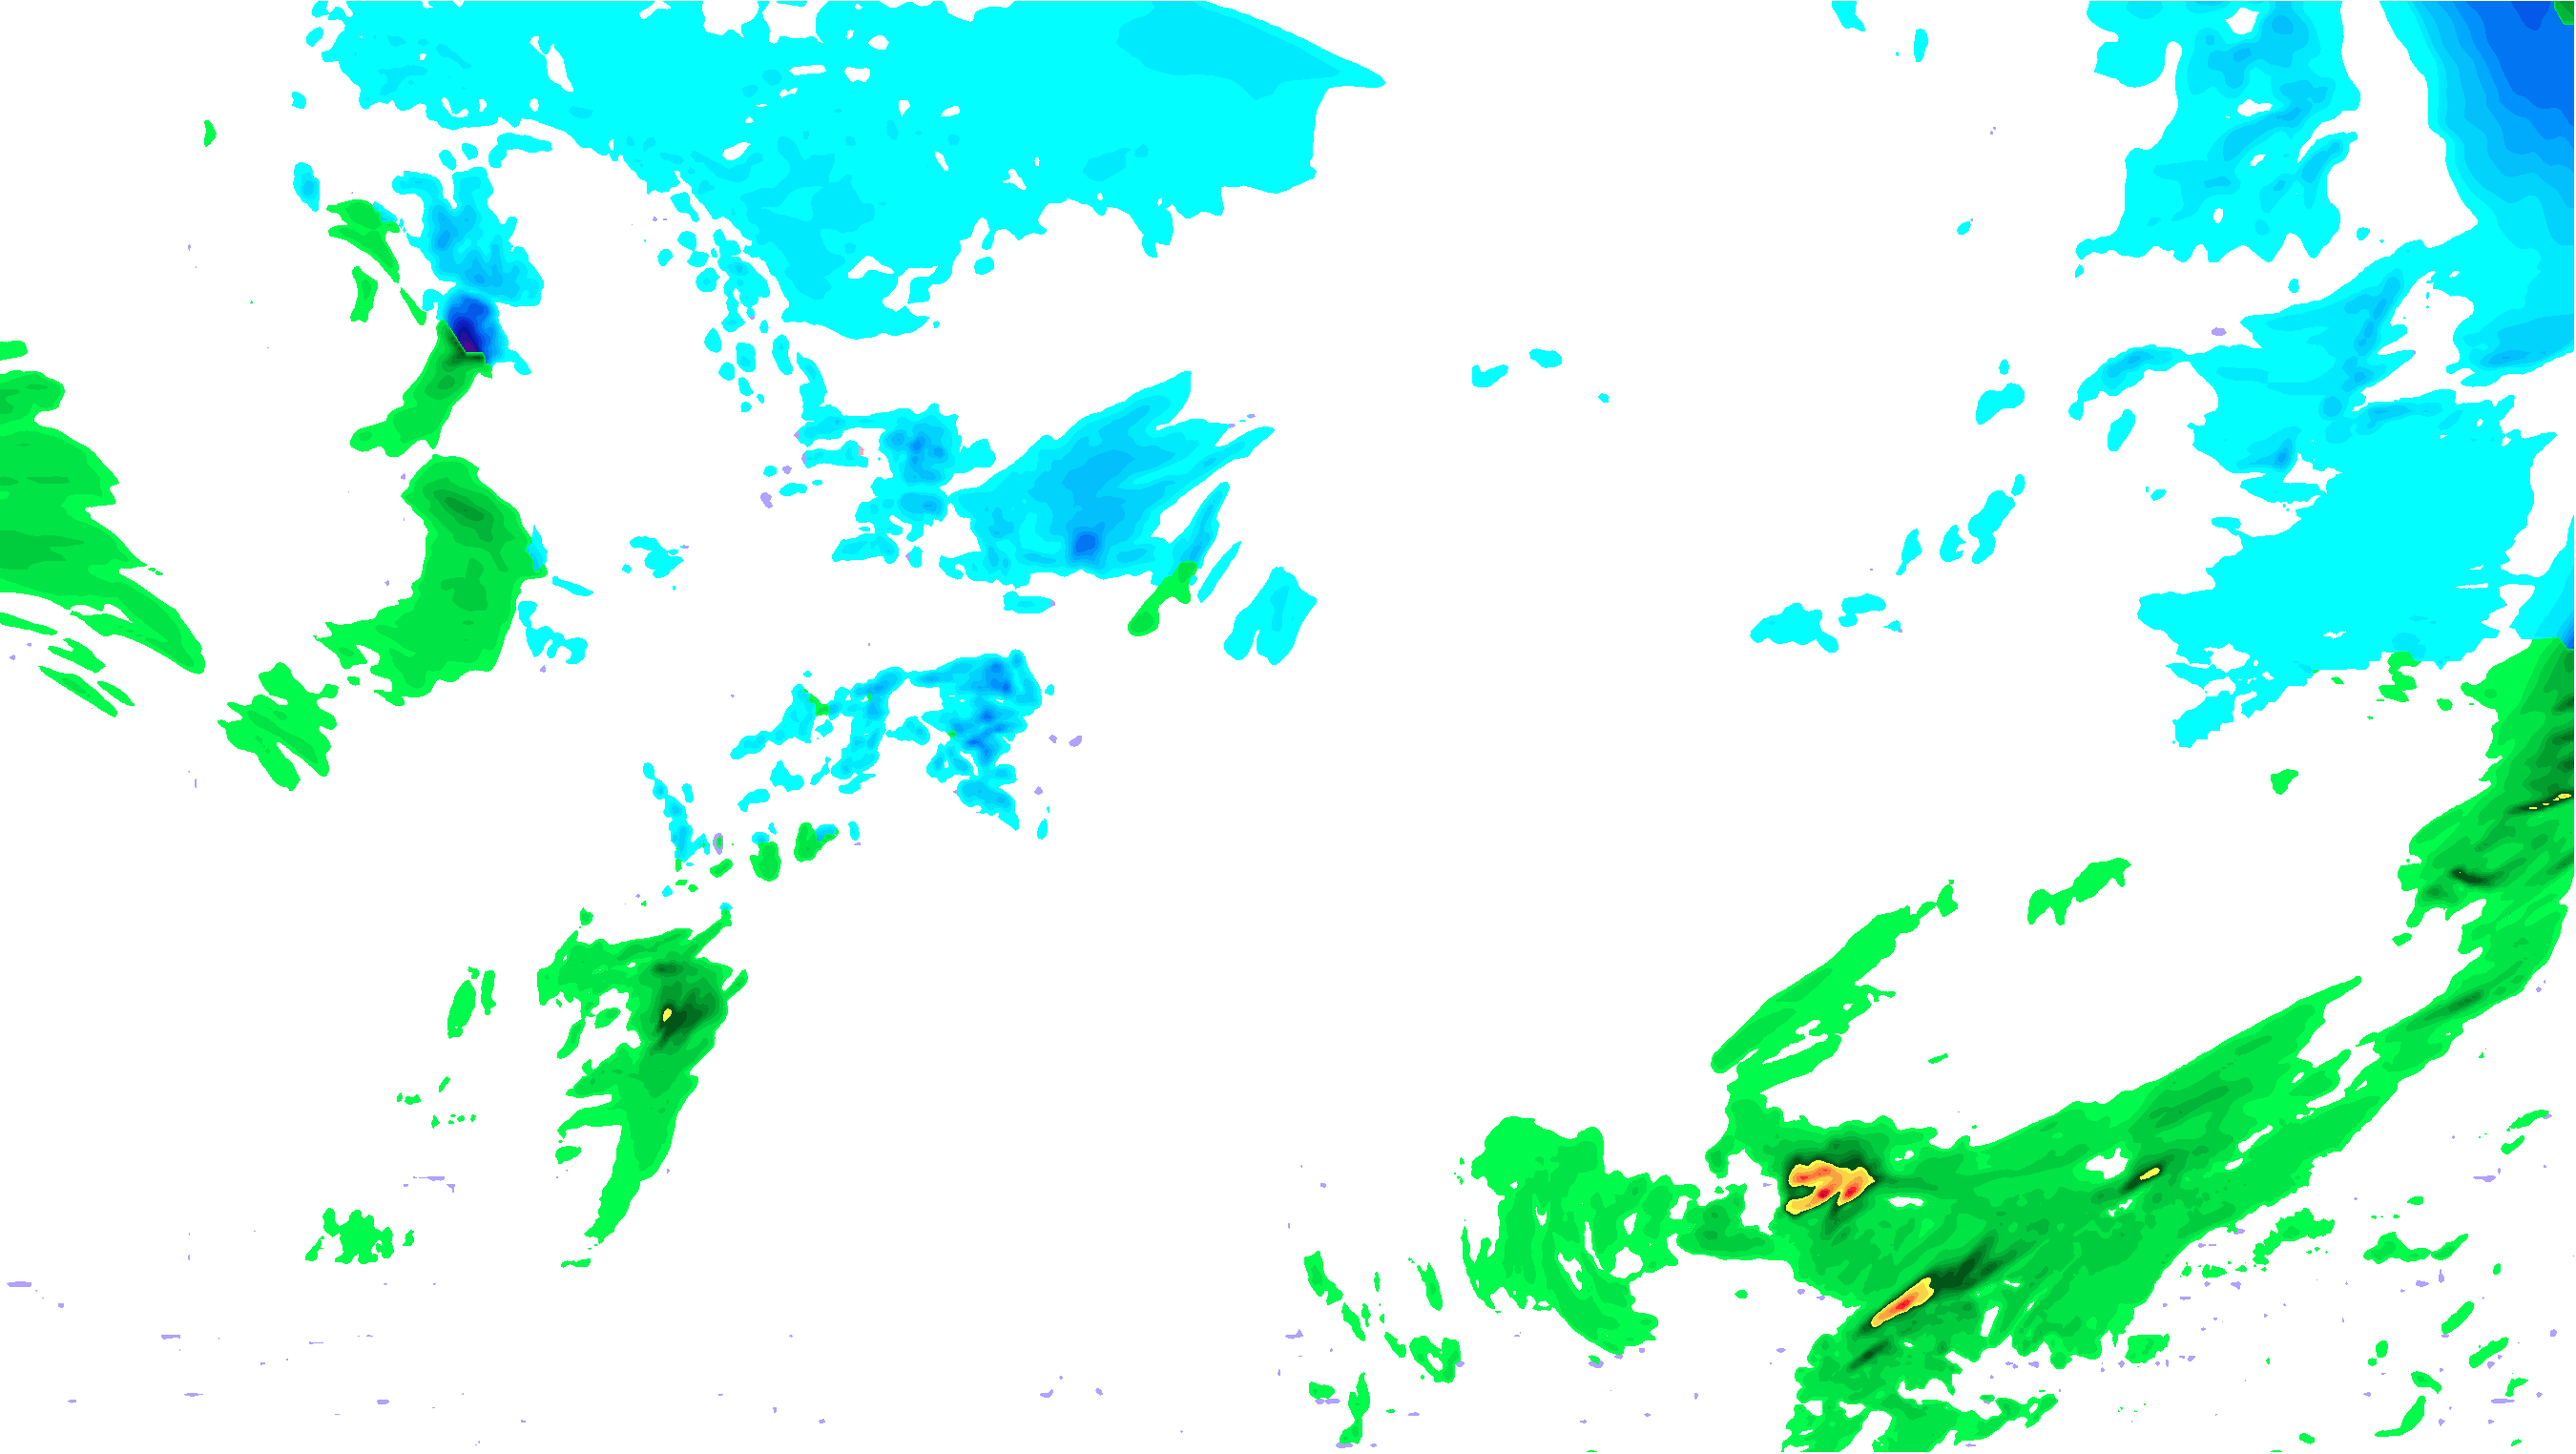
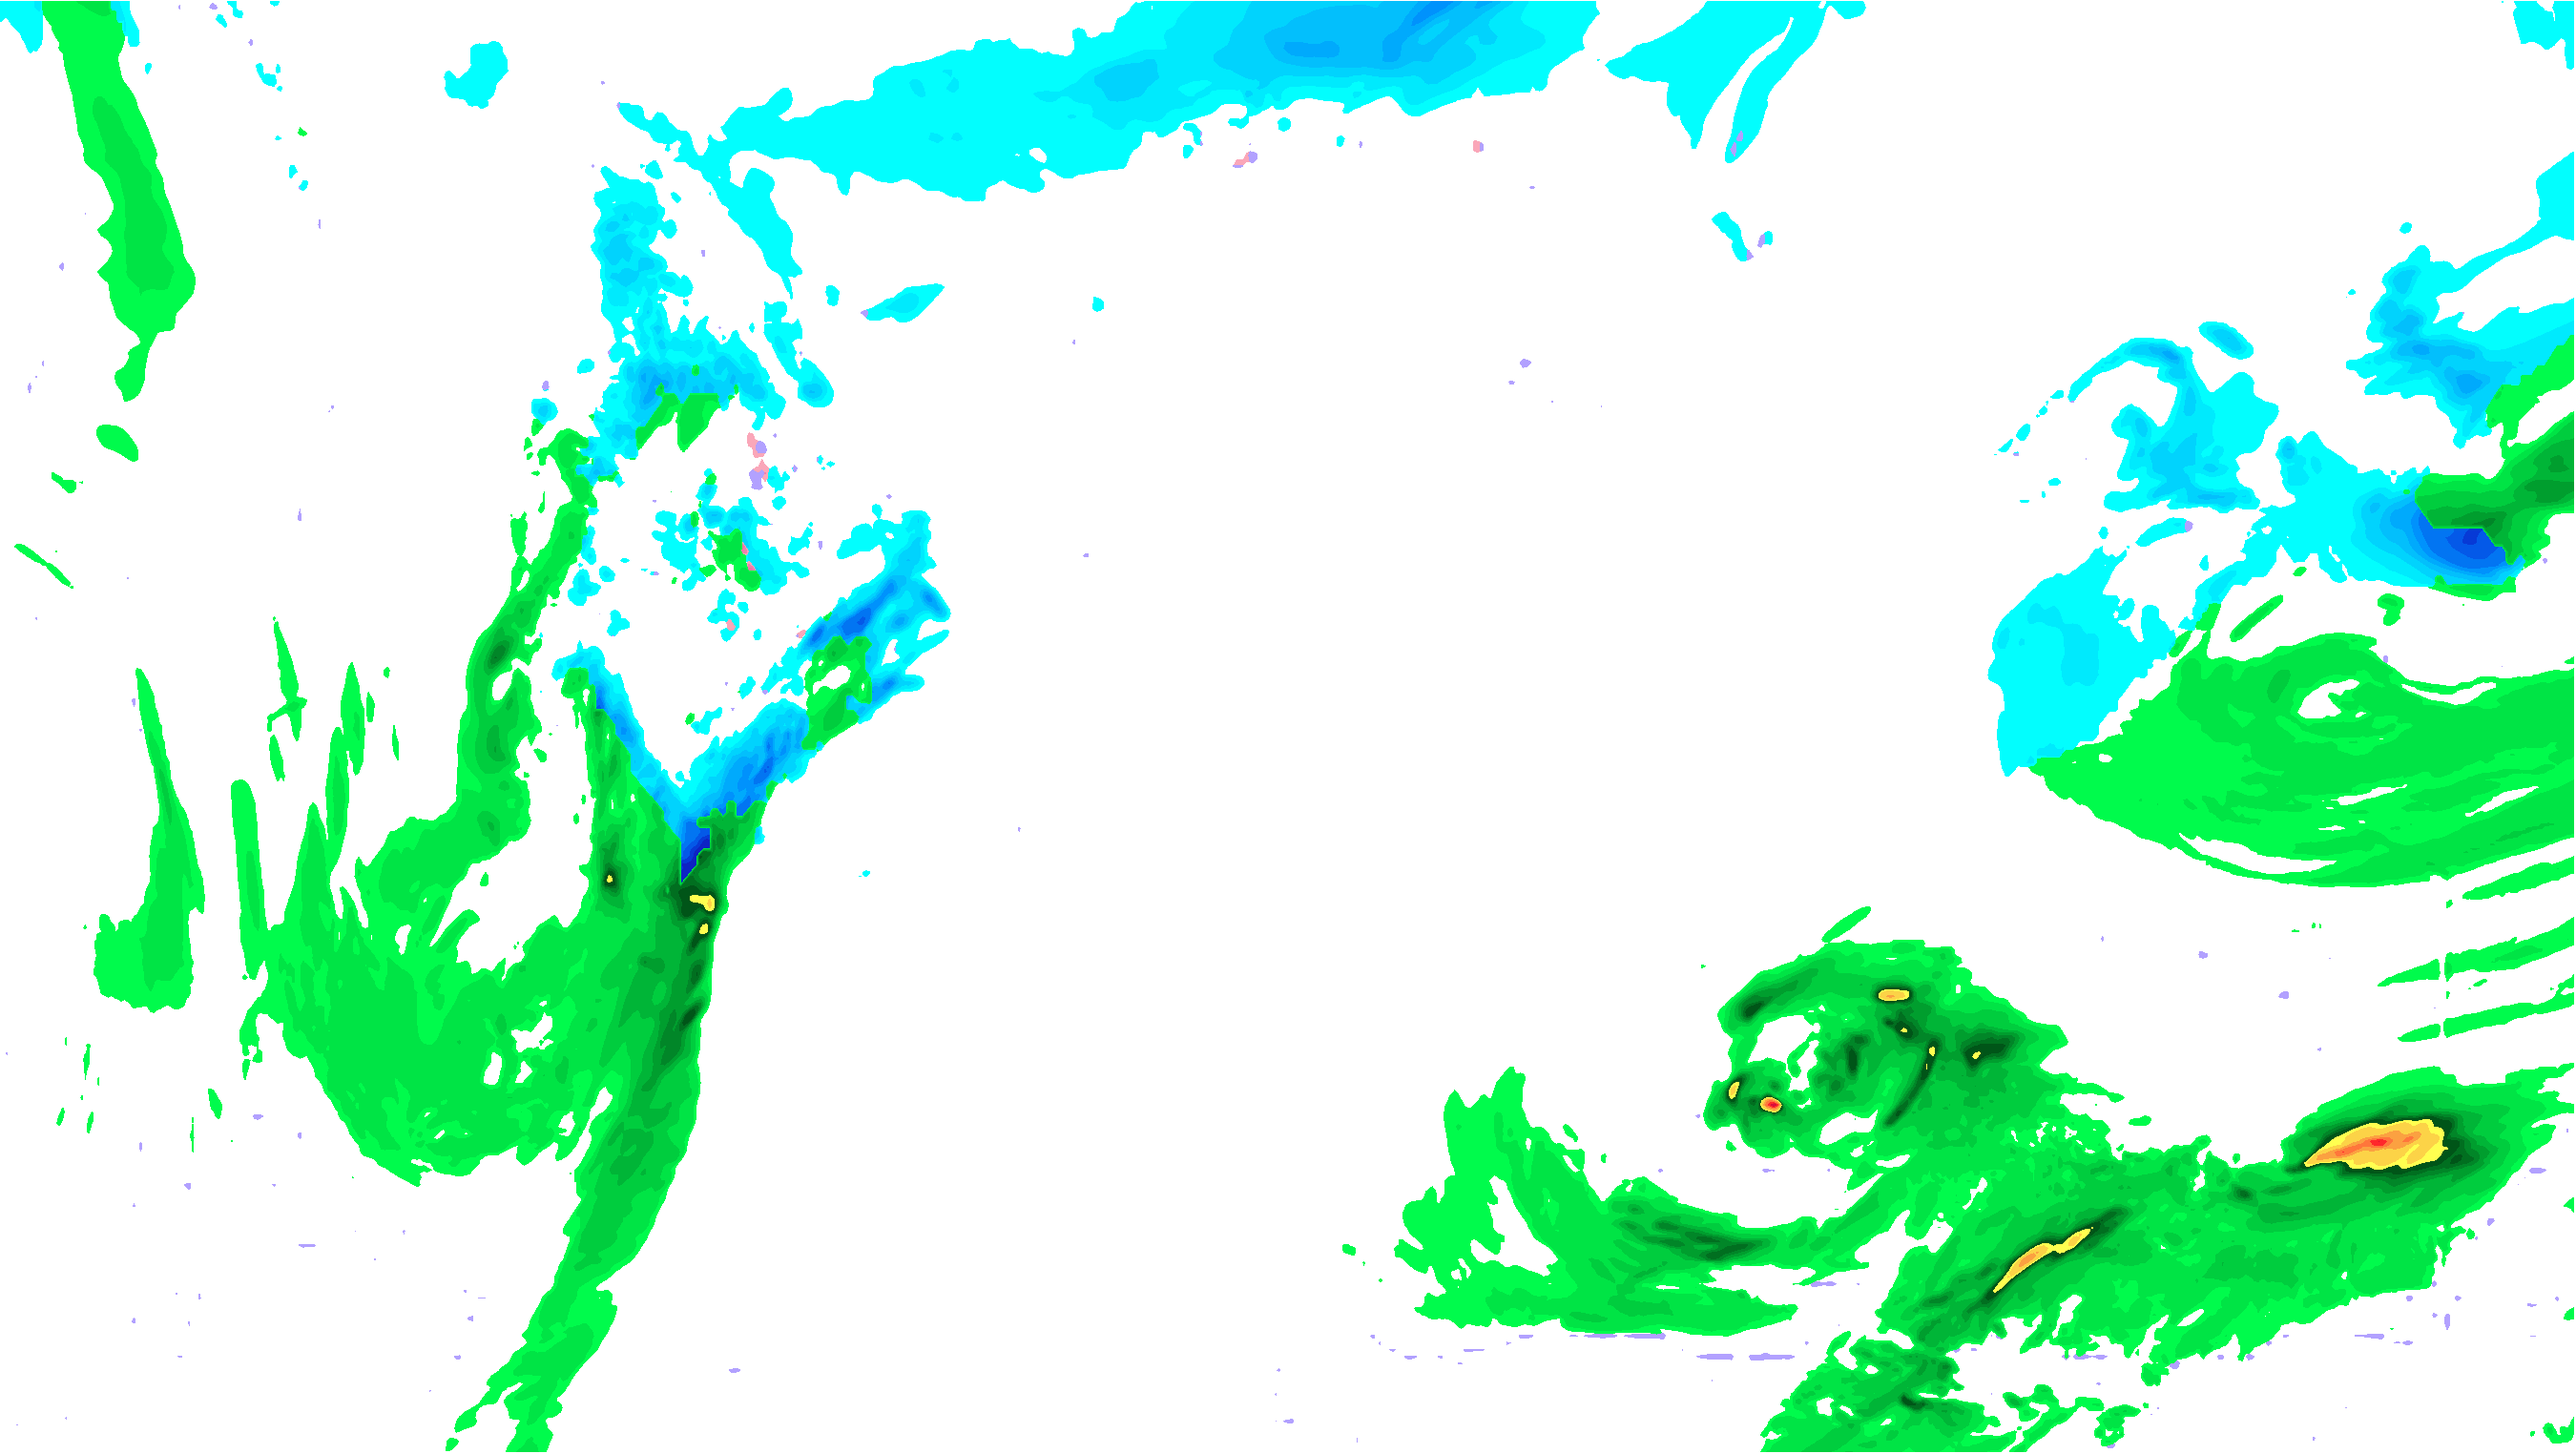
February 4, 2024 Update
Push new maps

diff --git a/index.html b/index.html
@@ -18,7 +18,7 @@
             <div id="map" class="webmap-new"></div>
           </div>
           <div class="map-info-embed">
-            <p id="currentDate" class="slider-header">Jan 28, 2024, 7 AM EST</p>
+            <p id="currentDate" class="slider-header">Feb 04, 2024, 7 AM EST</p>
           </div>
           <div class="sliderOverlay">
             <input type="range" id="dateSlider" class="slider" min="0" max="39" value="0" step="1">

diff --git a/main.js b/main.js
@@ -22,8 +22,8 @@ map.addControl(new mapboxgl.GeolocateControl({
 const dateTimes = [];
 
 // Set the start and end date
-const startDate = new Date('2024-01-28T12:00:00');
-const endDate = new Date('2024-02-20T23:00:00');
+const startDate = new Date('2024-02-04T12:00:00');
+const endDate = new Date('2024-02-27T23:00:00');
 
 // Loop through the hours between start and end dates
 let currentDate = startDate;

diff --git a/UCAR-GFS-P-Type.py b/UCAR-GFS-P-Type.py
@@ -36,7 +36,7 @@ def readLocalData(data_path,extent):
 
 def readCloudData(extent,prateShape,i):
     # Open the NOMADS GFS file
-    ds = xr.open_dataset('http://nomads.ncep.noaa.gov:80/dods/gfs_0p25/gfs20240128/gfs_0p25_06z')
+    ds = xr.open_dataset('http://nomads.ncep.noaa.gov:80/dods/gfs_0p25/gfs20240204/gfs_0p25_06z')
         
     cropped_ds = ds.sel(lat=slice(extent[2],extent[3]), lon=slice(extent[0]+360,extent[1]+360))
     
@@ -122,7 +122,7 @@ def startScript():
     for i in np.arange(6,246,6):
         i = str(i).zfill(3)
         print(i)
-        url = f'https://nomads.ncep.noaa.gov/pub/data/nccf/com/gfs/prod/gfs.20240128/06/atmos/gfs.t06z.sfluxgrbf{i}.grib2'
+        url = f'https://nomads.ncep.noaa.gov/pub/data/nccf/com/gfs/prod/gfs.20240204/06/atmos/gfs.t06z.sfluxgrbf{i}.grib2'
         urllib.request.urlretrieve(url,f'./Data/GFS/MostRecent/{i}.grib2')
         
         buildMap(i,ax,extent)
